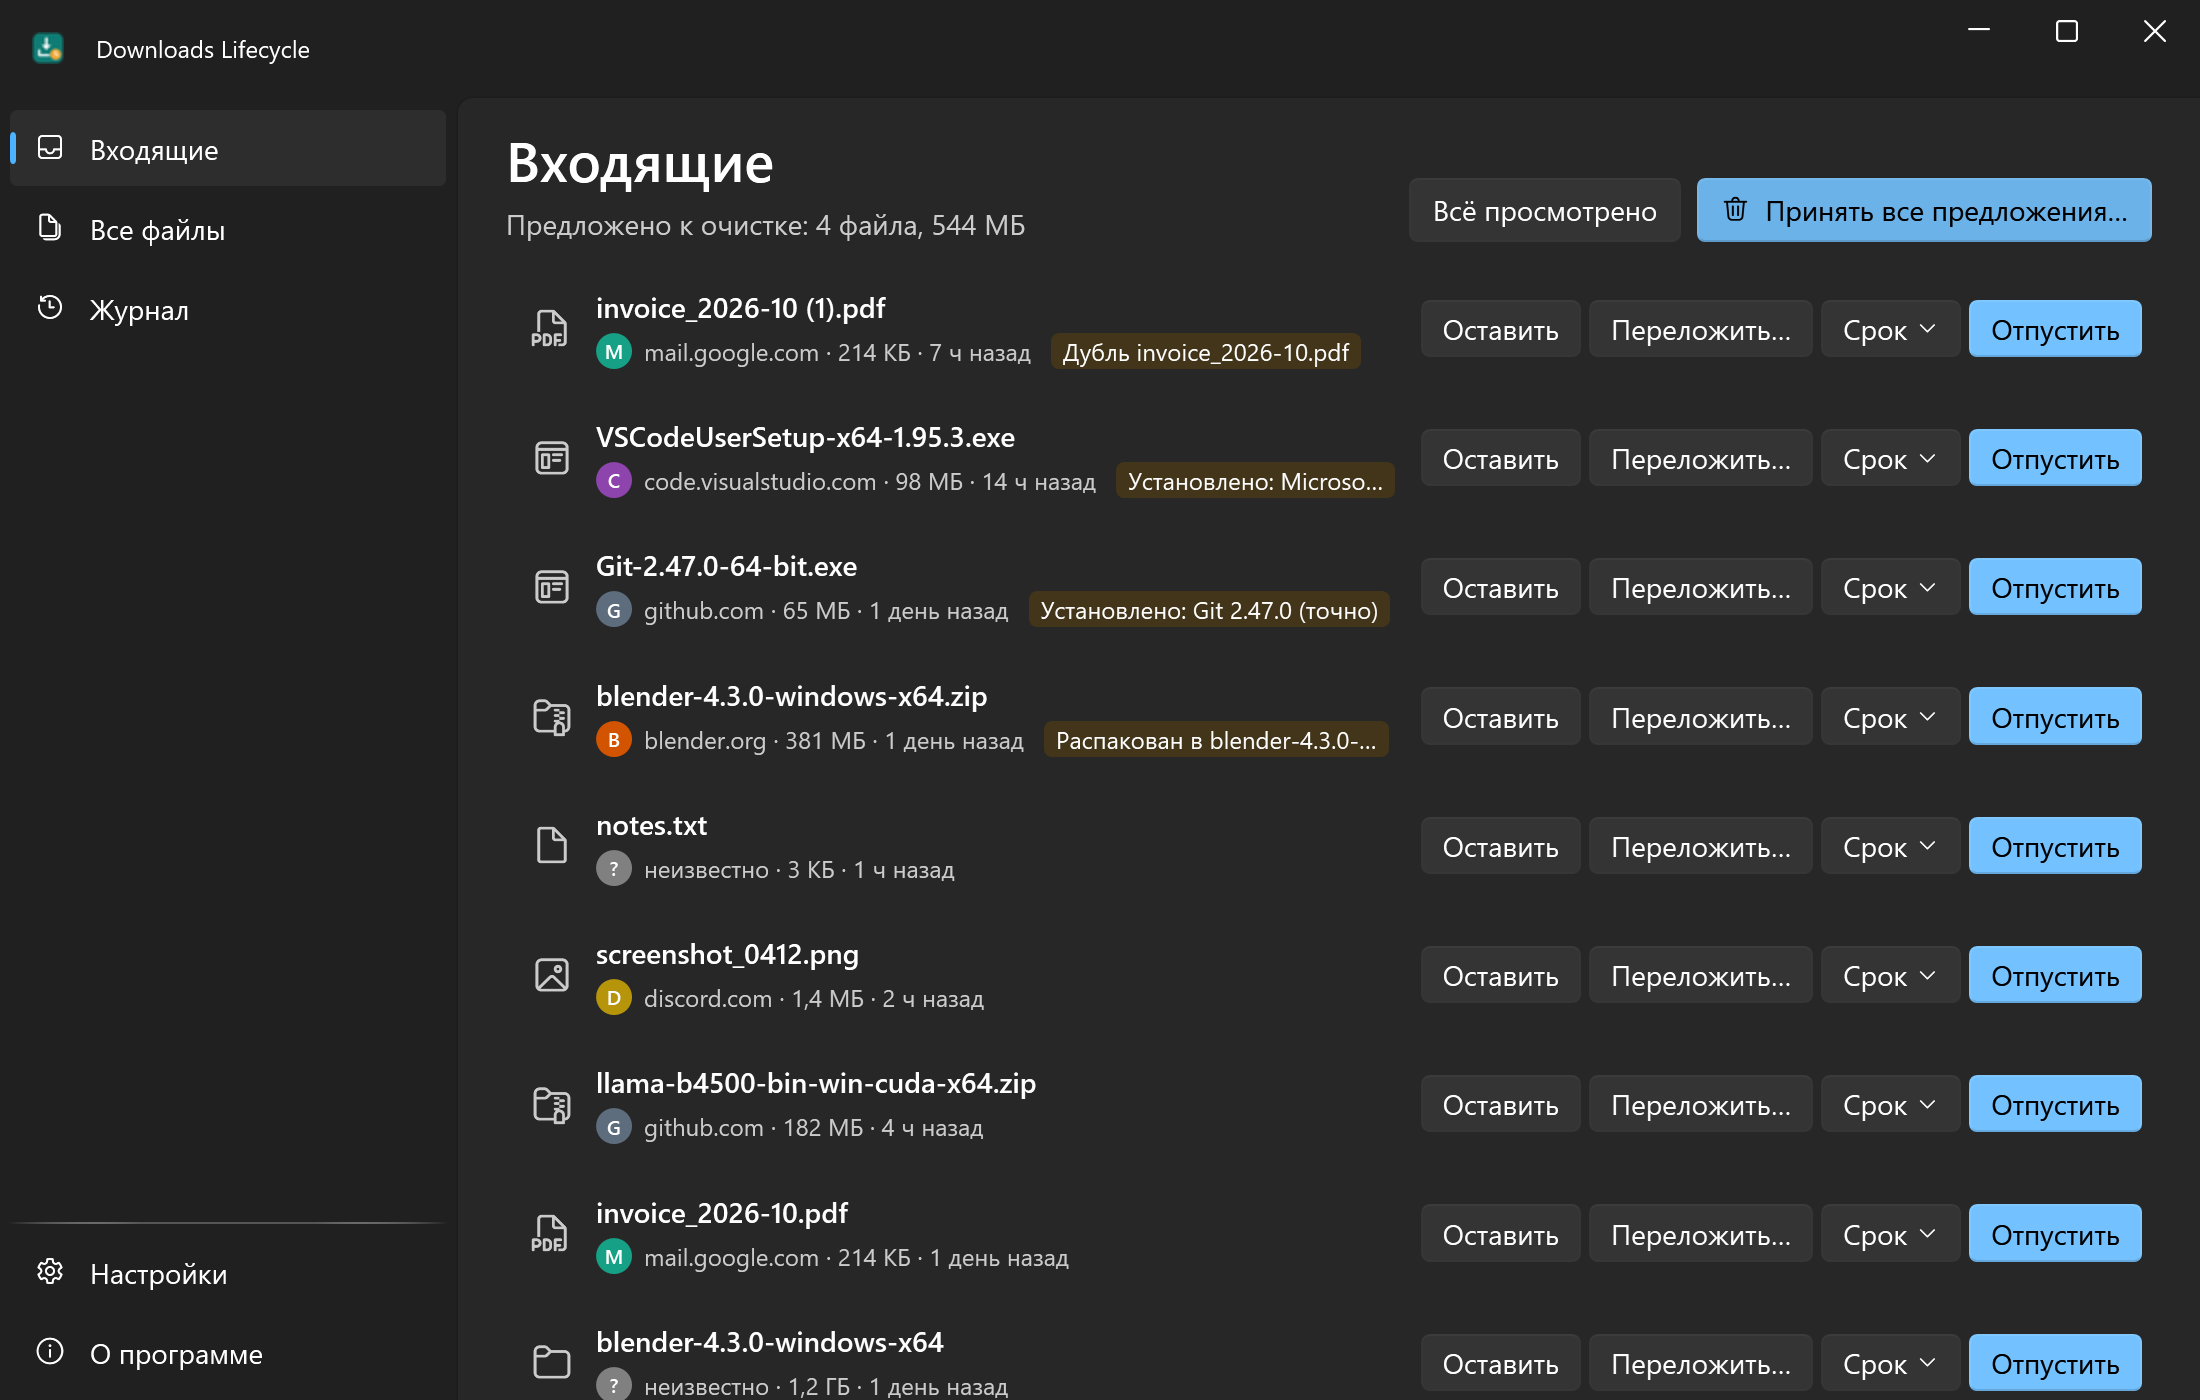
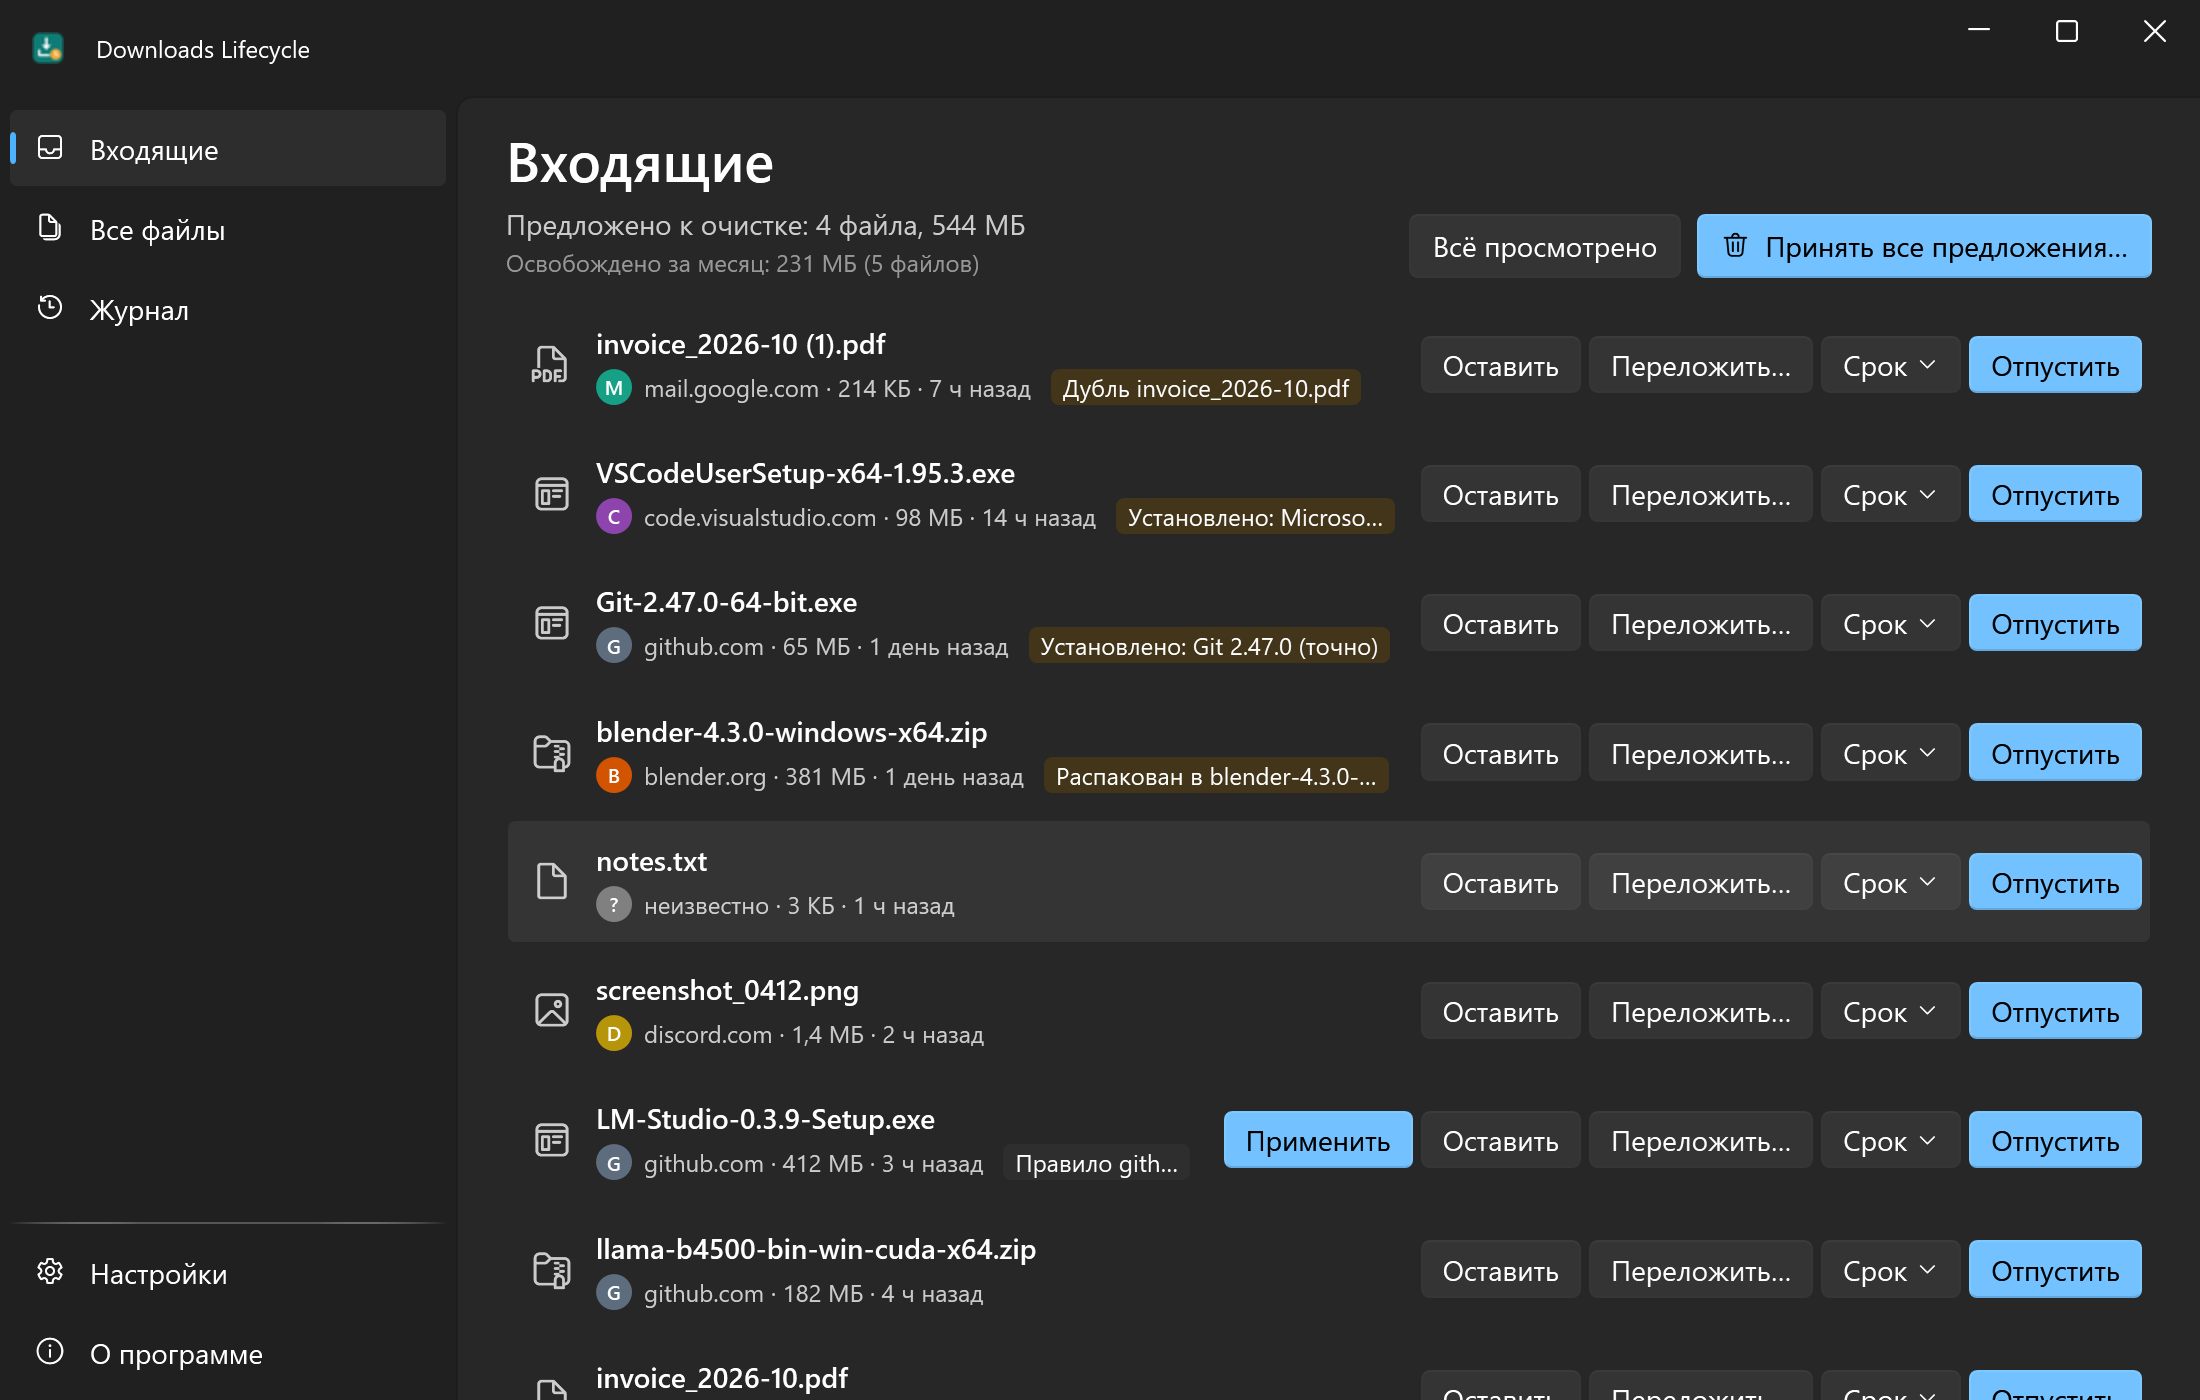
v1.0 (branch v1): README EN/RU and screenshots, rules editor layout, fixes from the sandbox run
- README: site rules, 7z/rar/tar, restore, extra folders, Where is it from?, exact-match rules
- docs: inbox, files, journal, rules (folders + site rules), safety (auto-rules + limits)
- Page ids rules / safety scroll Settings to the app's sections
- First run: what the first scan finds is not new; Apply on a rule journals the site

diff --git a/src/DownloadsLifecycle/Features/RulesSettings.xaml b/src/DownloadsLifecycle/Features/RulesSettings.xaml
@@ -16,7 +16,7 @@
         </Style>
     </UserControl.Resources>
     <StackPanel>
-        <ui:TextBlock Text="{l:T Settings.Folder}" Style="{StaticResource Head}" Margin="0,0,0,8" />
+        <ui:TextBlock x:Name="FolderHead" Text="{l:T Settings.Folder}" Style="{StaticResource Head}" Margin="0,0,0,8" />
         <ui:CardControl Icon="{ui:SymbolIcon Folder24}" Margin="0,0,0,4">
             <ui:CardControl.Header>
                 <StackPanel>
@@ -39,7 +39,7 @@
         <ItemsControl x:Name="RuleList" />
         <ui:Button Content="{l:T SiteRules.Add}" Icon="{ui:SymbolIcon Add24}" Click="AddRule" Margin="0,4,0,0" />
 
-        <ui:TextBlock Text="{l:T Settings.Rules}" Style="{StaticResource Head}" />
+        <ui:TextBlock x:Name="AutoHead" Text="{l:T Settings.Rules}" Style="{StaticResource Head}" />
         <ui:CardControl Icon="{ui:SymbolIcon CalendarClock24}" Margin="0,0,0,4">
             <ui:CardControl.Header>
                 <StackPanel>

diff --git a/src/DownloadsLifecycle/Features/RulesSettings.xaml.cs b/src/DownloadsLifecycle/Features/RulesSettings.xaml.cs
@@ -16,8 +16,8 @@ namespace DownloadsLifecycle.Features;
 /// </summary>
 public partial class RulesSettings
 {
-    /// <summary>Page id "rules": Settings scrolled to this section (screenshots, the tray).</summary>
-    public static bool ScrollIntoView { get; set; }
+    /// <summary>Page ids "rules" (folders and site rules) and "safety" (auto-rules and limits): Settings scrolled there (screenshots, the tray).</summary>
+    public static string? ScrollTo { get; set; }
 
     static Settings S => Settings.Current;
     static string Telegram => Path.Combine(Folder.Path, "Telegram Desktop");
@@ -27,9 +27,23 @@ public partial class RulesSettings
         InitializeComponent();
         Loaded += (_, _) =>
         {
-            if (!ScrollIntoView) return;
-            ScrollIntoView = false;
-            Dispatcher.BeginInvoke(() => BringIntoView(new Rect(0, 0, ActualWidth, ActualHeight * 0.3)), System.Windows.Threading.DispatcherPriority.Loaded);
+            if (ScrollTo is not { } target) return;
+            ScrollTo = null;
+            FrameworkElement head = target == "safety" ? AutoHead : FolderHead;
+            var tries = 0;
+            var timer = new System.Windows.Threading.DispatcherTimer { Interval = TimeSpan.FromMilliseconds(50) };
+            timer.Tick += (_, _) => // the page's ScrollViewer is measured a few frames after Loaded
+            {
+                for (var p = System.Windows.Media.VisualTreeHelper.GetParent(this); p is not null; p = System.Windows.Media.VisualTreeHelper.GetParent(p))
+                    if (p is ScrollViewer { ScrollableHeight: > 0 } sv)
+                    {
+                        sv.ScrollToVerticalOffset(sv.VerticalOffset + head.TransformToAncestor(sv).Transform(new Point(0, 0)).Y - 8);
+                        timer.Stop();
+                        return;
+                    }
+                if (++tries > 40) timer.Stop();
+            };
+            timer.Start();
         };
         var s = S;
         FolderText.Text = Folder.Path;
@@ -156,13 +170,13 @@ public partial class RulesSettings
 
     FrameworkElement RuleRow(SiteRule r)
     {
-        var domain = new TextBox { Text = r.Domain, PlaceholderText = Loc.T("SiteRules.Domain"), Width = 180, Margin = new Thickness(0, 0, 8, 6) };
-        var exts = new TextBox { Text = r.Extensions, PlaceholderText = Loc.T("SiteRules.Extensions"), Width = 140, Margin = new Thickness(0, 0, 8, 6) };
-        var action = new ComboBox { Width = 190, Margin = new Thickness(0, 0, 8, 6) };
+        var domain = new TextBox { Text = r.Domain, PlaceholderText = Loc.T("SiteRules.Domain"), Width = 220, Margin = new Thickness(0, 0, 8, 6) };
+        var exts = new TextBox { Text = r.Extensions, PlaceholderText = Loc.T("SiteRules.Extensions"), Width = 180, Margin = new Thickness(0, 0, 8, 6) };
+        var action = new ComboBox { Width = 240, Margin = new Thickness(0, 0, 8, 6) };
         foreach (var a in new[] { "ttl", "move", "clean" }) action.Items.Add(new ComboBoxItem { Tag = a, Content = Loc.T("SiteRules.Action." + a) });
         action.SelectedItem = action.Items.Cast<ComboBoxItem>().FirstOrDefault(i => (string)i.Tag == r.Action) ?? action.Items[0];
-        var days = new NumberBox { Value = r.Days, Minimum = 1, Maximum = 3650, MaxDecimalPlaces = 0, Width = 110, ClearButtonEnabled = false, Margin = new Thickness(0, 0, 8, 6) };
-        var folder = new Button { Content = r.Folder ?? Loc.T("SiteRules.Folder"), Margin = new Thickness(0, 0, 8, 6), MaxWidth = 260 };
+        var days = new NumberBox { Value = r.Days, Minimum = 1, Maximum = 3650, MaxDecimalPlaces = 0, Width = 160, ClearButtonEnabled = false, Margin = new Thickness(0, 0, 8, 6) };
+        var folder = new Button { Content = r.Folder ?? Loc.T("SiteRules.Folder"), Margin = new Thickness(0, 0, 8, 6), MaxWidth = 320 };
         var auto = new ToggleSwitch { IsChecked = r.Auto, Content = Loc.T("SiteRules.Auto"), Margin = new Thickness(0, 0, 8, 6) };
         var remove = new Button { Icon = new SymbolIcon(SymbolRegular.Delete24), ToolTip = Loc.T("SiteRules.Remove"), Margin = new Thickness(0, 0, 0, 6) };
         foreach (var (c, name) in new (FrameworkElement, string)[] { (domain, "SiteRules.Domain"), (exts, "SiteRules.Extensions"), (action, "SiteRules.Title"),
@@ -192,11 +206,17 @@ public partial class RulesSettings
         };
         remove.Click += (_, _) => { S.SiteRules.Remove(r); RuleSaved(); RulesList(); };
 
-        var row = new WrapPanel();
-        foreach (var c in new FrameworkElement[] { domain, exts, action, days, folder, auto, remove })
+        // two lines: what matches / what happens
+        var row = new StackPanel();
+        foreach (var line in new[] { new FrameworkElement[] { domain, exts, action }, [days, folder, auto, remove] })
         {
-            c.VerticalAlignment = VerticalAlignment.Center;
-            row.Children.Add(c);
+            var panel = new WrapPanel();
+            foreach (var c in line)
+            {
+                c.VerticalAlignment = VerticalAlignment.Center;
+                panel.Children.Add(c);
+            }
+            row.Children.Add(panel);
         }
         return new Card { Content = row, Margin = new Thickness(0, 0, 0, 4), Padding = new Thickness(12, 10, 12, 4) };
     }

diff --git a/src/DownloadsLifecycle/MainWindow.xaml.cs b/src/DownloadsLifecycle/MainWindow.xaml.cs
@@ -31,7 +31,7 @@ public partial class MainWindow
     /// <summary>By TargetPageTag: "inbox", "files", "journal", "settings", "about"; "rules" = Settings at the app's section.</summary>
     public void Navigate(string page)
     {
-        if (page == "rules") (RulesSettings.ScrollIntoView, page) = (true, "settings"); // Settings, scrolled to the app's section
+        if (page is "rules" or "safety") (RulesSettings.ScrollTo, page) = (page, "settings"); // Settings, scrolled to the app's section
         Nav.Navigate(page);
     }
 

diff --git a/src/DownloadsLifecycle/Features/Rules.cs b/src/DownloadsLifecycle/Features/Rules.cs
@@ -139,7 +139,7 @@ namespace DownloadsLifecycle.Features
             { Type: "duplicate" } s => $"duplicate|{s.Subject}",
             { Type: "installer" } s => $"installer|{s.Subject} {s.Version}".TrimEnd(),
             { Type: "archive" } s => $"archive|{s.Subject}",
-            { Type: "site" } s => $"site|{s.Subject}",
+            { Type: "site" or "rule" } s => $"site|{s.Subject}",
             _ when Expired(i, nowUtc) => "expired",
             _ => "",
         };

diff --git a/src/DownloadsLifecycle/Features/Engine.cs b/src/DownloadsLifecycle/Features/Engine.cs
@@ -59,6 +59,7 @@ public static class Engine
         {
             uninstall = UninstallEntries.List();
             Watch(Folder.All);
+            if (FirstRun) index.LastTriageUtc = DateTime.UtcNow; // what the first scan found is not "new"
         });
     }
 

diff --git a/README.md b/README.md
@@ -29,9 +29,12 @@ Nothing is ever deleted for good: every file goes to the Recycle Bin, and every 
 
 - **Every file shows the site it came from** — search and group by site, with the full page and file address one click away.
 - **Leftovers are spotted for you** — installers of programs you already have, archives you already extracted, `file (1).pdf` duplicates.
-- **Lifetime** — right-click → "Lifetime → 7 days", and the file goes to the Recycle Bin when its time is up.
+- **Lifetime** — right-click → "Lifetime → 7 days": the file goes to the Recycle Bin when its time is up.
+- **Site rules** — "github.com + exe, msi → move to D:\Installers", "huggingface.co → 30 days": automatic, or one Apply click in the inbox.
+- **More than zip** — .7z, .rar and .tar.* archives are checked too; Telegram Desktop or any other folder can be watched like Downloads.
+- **Restore and "Where is it from?"** — the journal brings files back from the Recycle Bin; right-click any file to see its site and addresses.
 - **One daily screen** — new downloads and suggestions in one place: Keep, Move, Let go or Lifetime, with keys K / M / Del / T.
-- **Safe by design** — Recycle Bin only, 8 s to undo, every action logged, both auto-rules are off until you turn them on.
+- **Safe by design** — Recycle Bin only, 8 s to undo, every action logged, every auto-rule is off until you turn it on.
 - **100 % local** — no admin rights, no telemetry, no browser history reading.
 
 ## See it in action
@@ -44,13 +47,15 @@ Nothing is ever deleted for good: every file goes to the Recycle Bin, and every 
 |---|---|---|
 | All files, grouped by site | ![All files, light](docs/files-light-en.png) | ![All files, dark](docs/files-dark-en.png) |
 | Journal | ![Journal, light](docs/journal-light-en.png) | ![Journal, dark](docs/journal-dark-en.png) |
-| Rules and safety | ![Rules, light](docs/rules-light-en.png) | ![Rules, dark](docs/rules-dark-en.png) |
+| Folders and site rules | ![Rules, light](docs/rules-light-en.png) | ![Rules, dark](docs/rules-dark-en.png) |
+| Auto-rules and safety | ![Safety, light](docs/safety-light-en.png) | ![Safety, dark](docs/safety-dark-en.png) |
 
 ## How it works
 
 When a browser saves a file, Windows attaches a hidden Mark-of-the-Web stream (`Zone.Identifier`) with the page and file address.
 Downloads Lifecycle only reads it, once, when the file appears, so the source survives "Unblock". Installers are matched against the list of installed programs
-(an `.msi` exactly by its ProductCode), `.zip` archives against the files next to them, duplicates by SHA-256. All of it happens on your PC.
+(an `.msi` exactly by its ProductCode), archives (`.zip`, `.7z`, `.rar`, `.tar.*`, only their lists of files) against the files next to them,
+duplicates by SHA-256. All of it happens on your PC.
 
 ## Download
 
@@ -63,7 +68,7 @@ Requirements: Windows 11 x64. Windows 10 22H2 should work but is not tested.
 ## First run
 
 Put the exe into `%LOCALAPPDATA%\Programs\DownloadsLifecycle\` first: from there it adds the right-click menu and the Start menu shortcut by itself.
-On the first start Windows may show a SmartScreen warning (see FAQ). The first screen shows how many files are there and offers the two auto-rules, both off.
+On the first start Windows may show a SmartScreen warning (see FAQ). The first screen shows how many files are there and offers the two simplest auto-rules, both off.
 The app then lives in the tray; turn on **Start with Windows** in Settings to get the daily reminder.
 
 ## Settings
@@ -72,6 +77,11 @@ The app then lives in the tray; turn on **Start with Windows** in Settings to ge
 |---|---|---|
 | Lifetime over → Recycle Bin | off | Files whose lifetime you set yourself go to the Recycle Bin when it ends |
 | Exact copies → Recycle Bin | off | Only `file (1).pdf` / `file - Copy.pdf` with the same contents as the original; the original stays |
+| Installed MSI → Recycle Bin | off | Only `.msi` files whose ProductCode Windows reports as installed; never `.exe` |
+| Extracted archives → Recycle Bin | off | Only when every file of the archive is next to it with the same size; checked again right before |
+| Wait before the two rules above | 3 days | Counted from the moment the match was found |
+| Site rules | none | Site (with subdomains) + extensions → lifetime, move to a folder, or offer for cleanup; automatic or with Apply |
+| Extra folders | none | Watched like Downloads, e.g. `Downloads\Telegram Desktop` |
 | Grace period | 24 h | The duplicates rule never touches younger files |
 | Size limit for rules | 4 GB | Bigger files are never let go by a rule, only by you |
 | Ask when more lifetimes end at once than | 20 | After a holiday they wait in the inbox for your OK |
@@ -88,6 +98,8 @@ Settings, the index (`state.json`) and the journal (`journal.jsonl`) live in `%A
 - An `.exe` that matches no installed program is never offered: it may be a portable app.
 - Moving to another drive copies, verifies and only then sends the original to the Recycle Bin; moves can be returned from the journal.
 - Rules wait 10 minutes after start, can be paused from the tray, and skip files bigger than the limit.
+- Installers and archives are let go by a rule only on an exact match (MSI by ProductCode, archive at 100 %), days after it was found, and checked again right before.
+- If Windows Storage Sense also clears Downloads, Settings warns you: those files skip the Recycle Bin and the journal.
 
 ## FAQ
 
@@ -114,6 +126,11 @@ is in `%LOCALAPPDATA%\Programs\DownloadsLifecycle\`; otherwise turn it on in Set
 
 The site is known only if the browser wrote Mark-of-the-Web: private/incognito windows, Telegram, files copied from a USB stick or
 a non-NTFS drive, and files unblocked before the app first saw them have none. Everything else still works for them.
+</details>
+
+<details><summary>A file went to the Recycle Bin by mistake</summary>
+
+Journal → **Restore**: it goes back to where it was (if that place is free). Moves have **Return**.
 </details>
 
 <details><summary>How do I uninstall?</summary>
